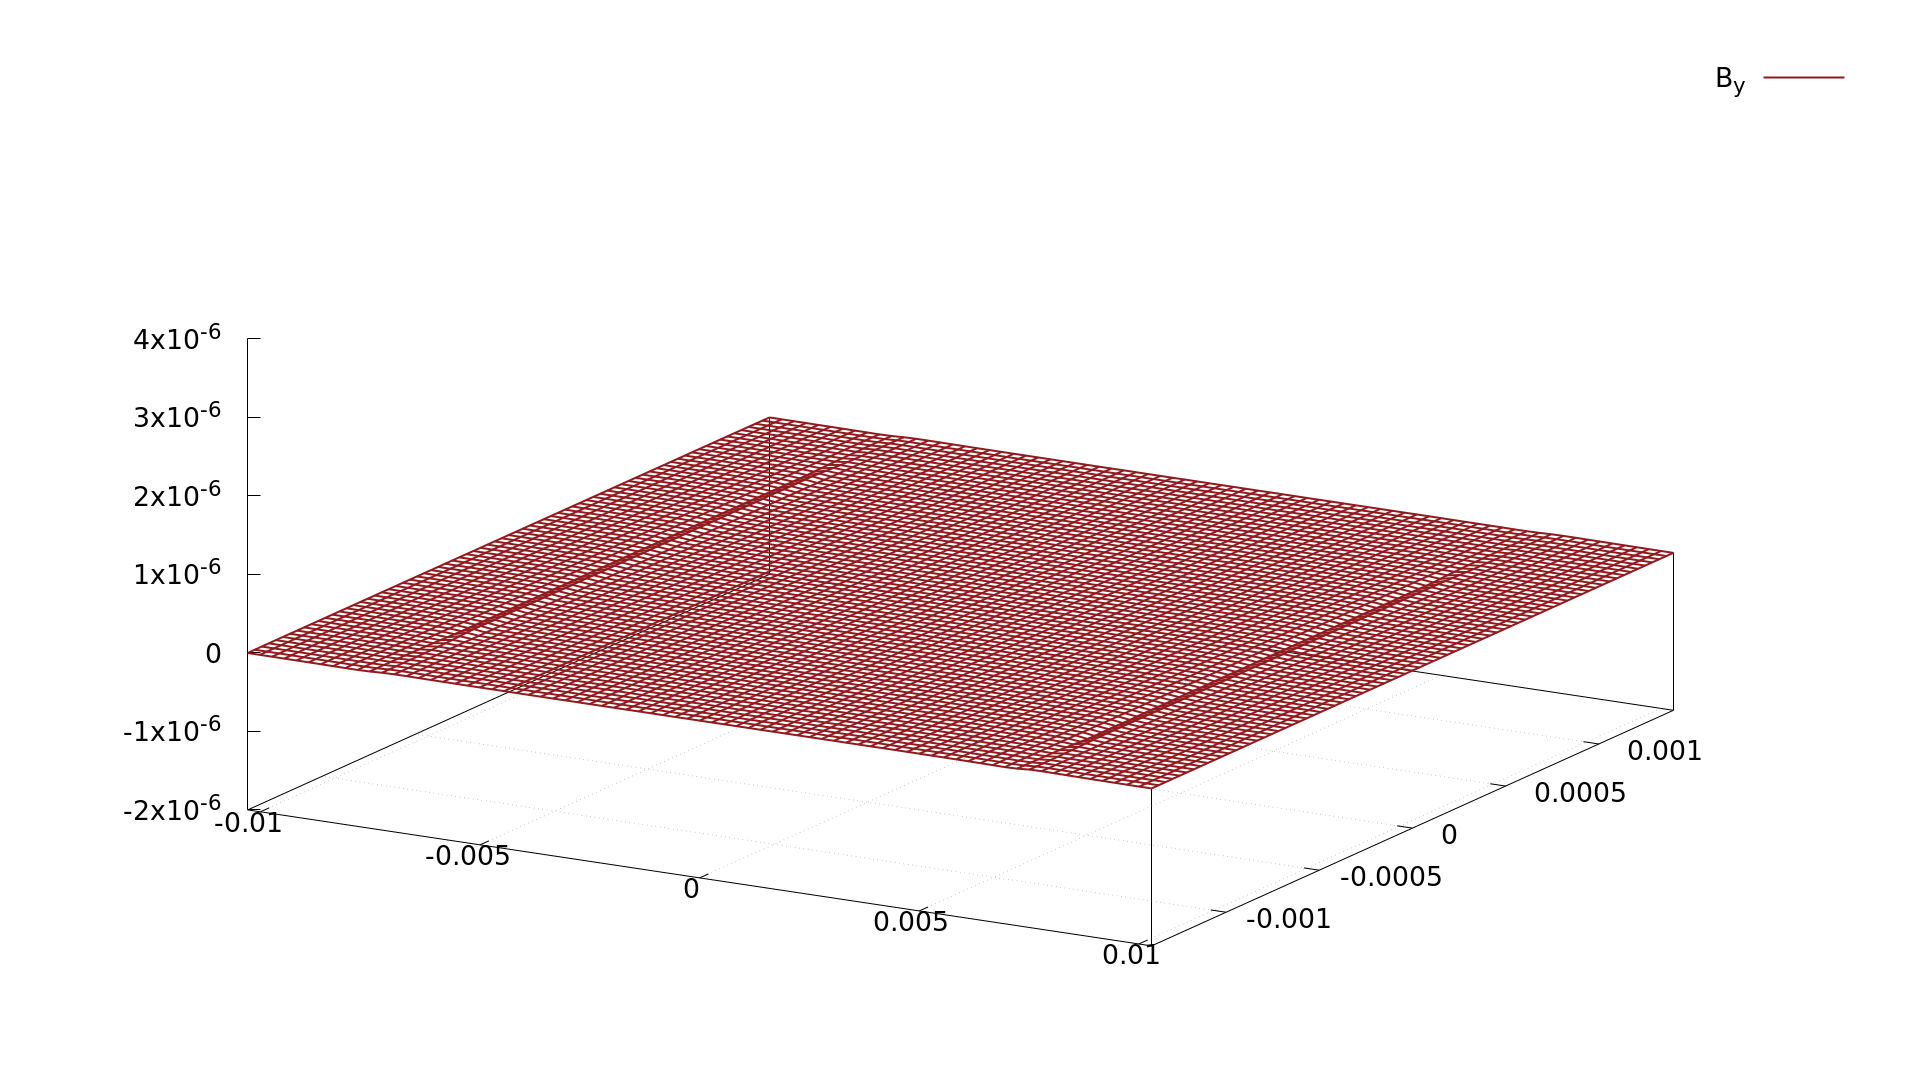
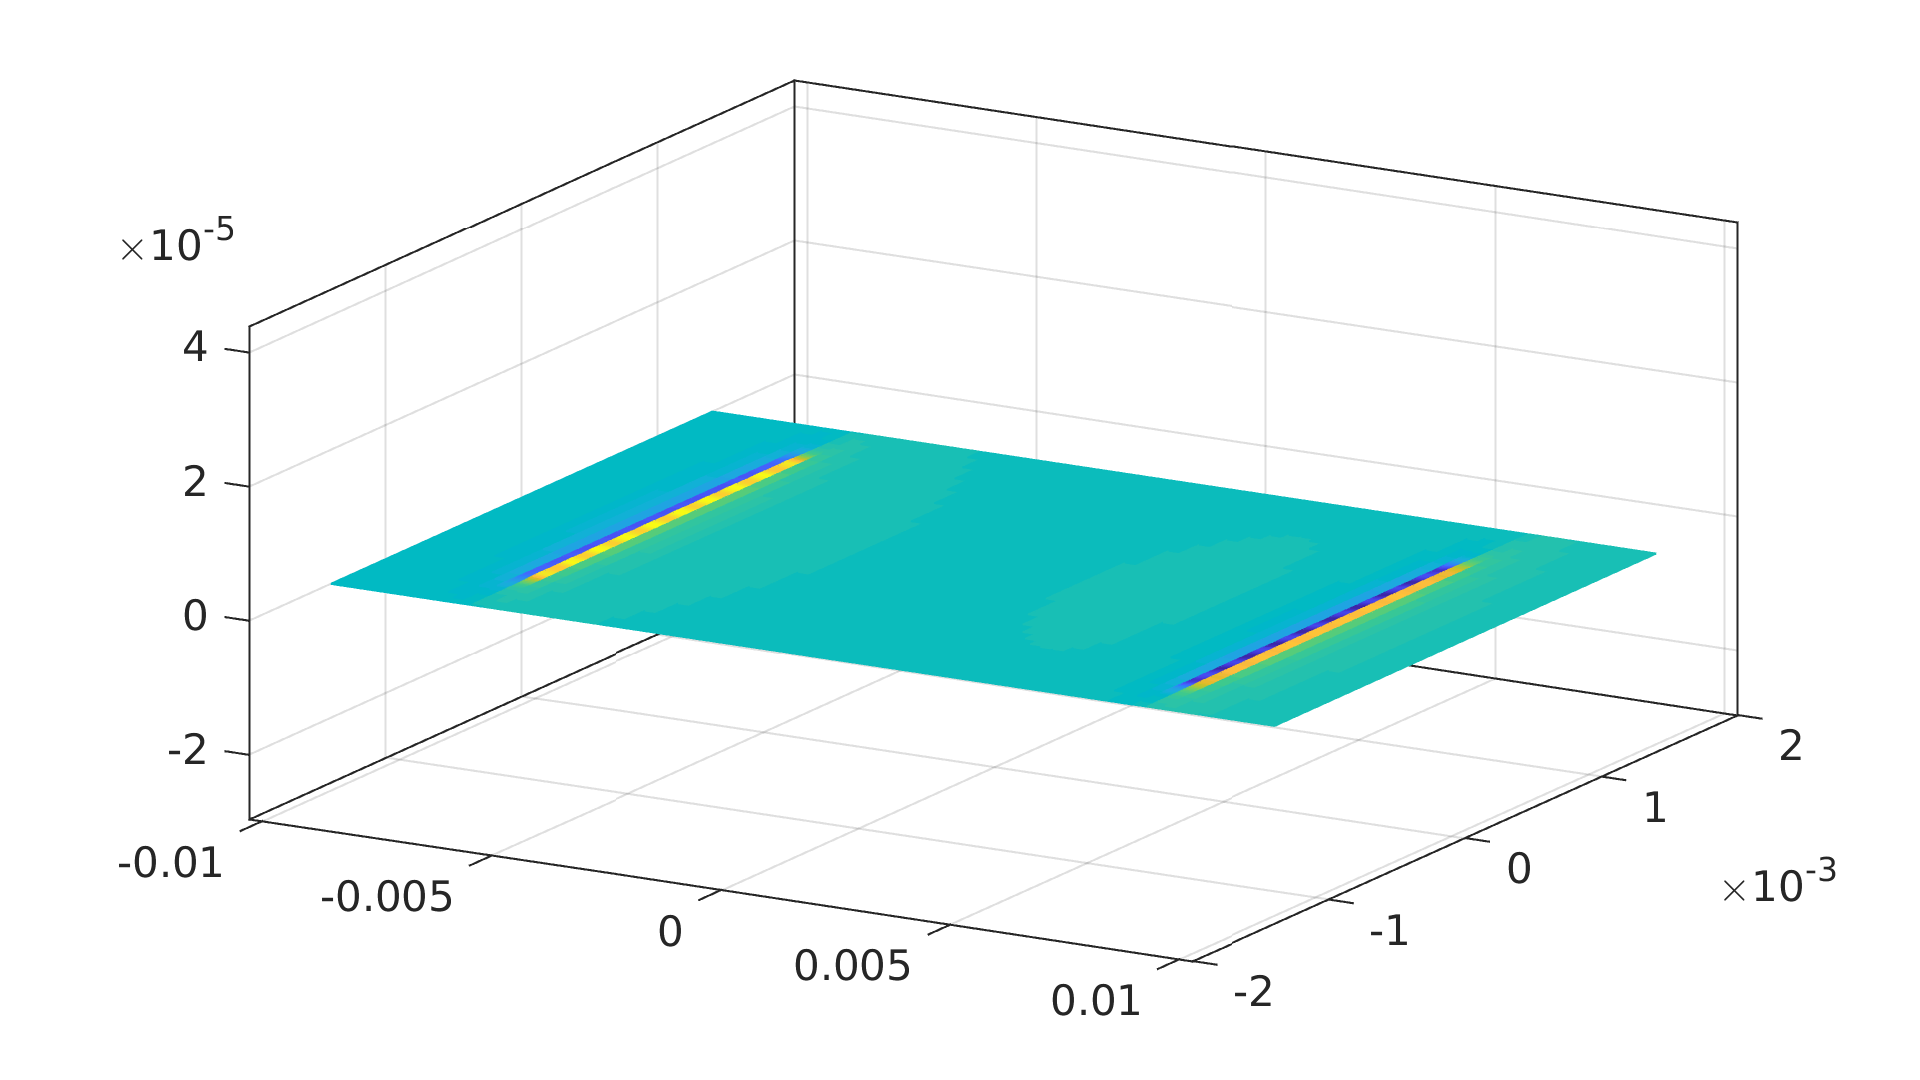
Add Matlab plotting option

diff --git a/plotResults.m b/plotResults.m
@@ -1,0 +1,69 @@
+% importAndPlot.m
+clear
+
+coilCoordinates = importdata('Output/theCoil.txt');
+
+% importdata('Output/XZBx.txt', [X[:] Z[:] Bx[:]]);
+% importdata('Output/XZBy.txt', [X[:] Z[:] By[:]]);
+% importdata('Output/XZBz.txt', [X[:] Z[:] Bz[:]]);
+
+X = importdata('Output/X.txt');
+Y = importdata('Output/Y.txt');
+Z = importdata('Output/Z.txt');
+Bx = importdata('Output/Bx.txt');
+By = importdata('Output/By.txt');
+Bz = importdata('Output/Bz.txt');
+
+whos
+
+setPlotSize(16,9,'centimeter')
+
+clf; hold on
+plot3(coilCoordinates(:,1),coilCoordinates(:,2),coilCoordinates(:,3))
+xlim([min(min(X)) max(max(X))])
+ylim([min(min(X)) max(max(X))])
+zlim([min(coilCoordinates(:,3)) max(coilCoordinates(:,3))])
+view(30,30)
+box on
+grid on
+filename = 'Output/theCoil';
+print(1,filename,'-dpng','-r300')
+% savefig(1,filename)
+% matlab2tikz([filename '.tikz'],'height','\figureheight','width','\figurewidth','showInfo',false);
+
+quiver3(X,Y,Z,Bx,By,Bz)
+xlim([min(min(X)) max(max(X))])
+ylim([min(min(X)) max(max(X))])
+zlim([min(coilCoordinates(:,3)) max(coilCoordinates(:,3))])
+view(30,30)
+box on
+grid on
+filename = 'Output/theField';
+print(1,filename,'-dpng','-r300')
+
+minimumField = min([min(min(Bx)) min(min(By)) min(min(Bz))]);
+maximumField = max([max(max(Bx)) max(max(By)) max(max(Bz))]);
+
+clf
+mesh(X,Z,Bx)
+zlim([minimumField maximumField])
+view(30,30)
+box on
+filename = 'Output/Bx';
+print(1,filename,'-dpng','-r300')
+
+clf
+mesh(X,Z,By)
+zlim([minimumField maximumField])
+view(30,30)
+box on
+filename = 'Output/By';
+print(1,filename,'-dpng','-r300')
+
+clf
+mesh(X,Z,Bz)
+zlim([minimumField maximumField])
+view(30,30)
+box on
+filename = 'Output/Bz';
+print(1,filename,'-dpng','-r300')
